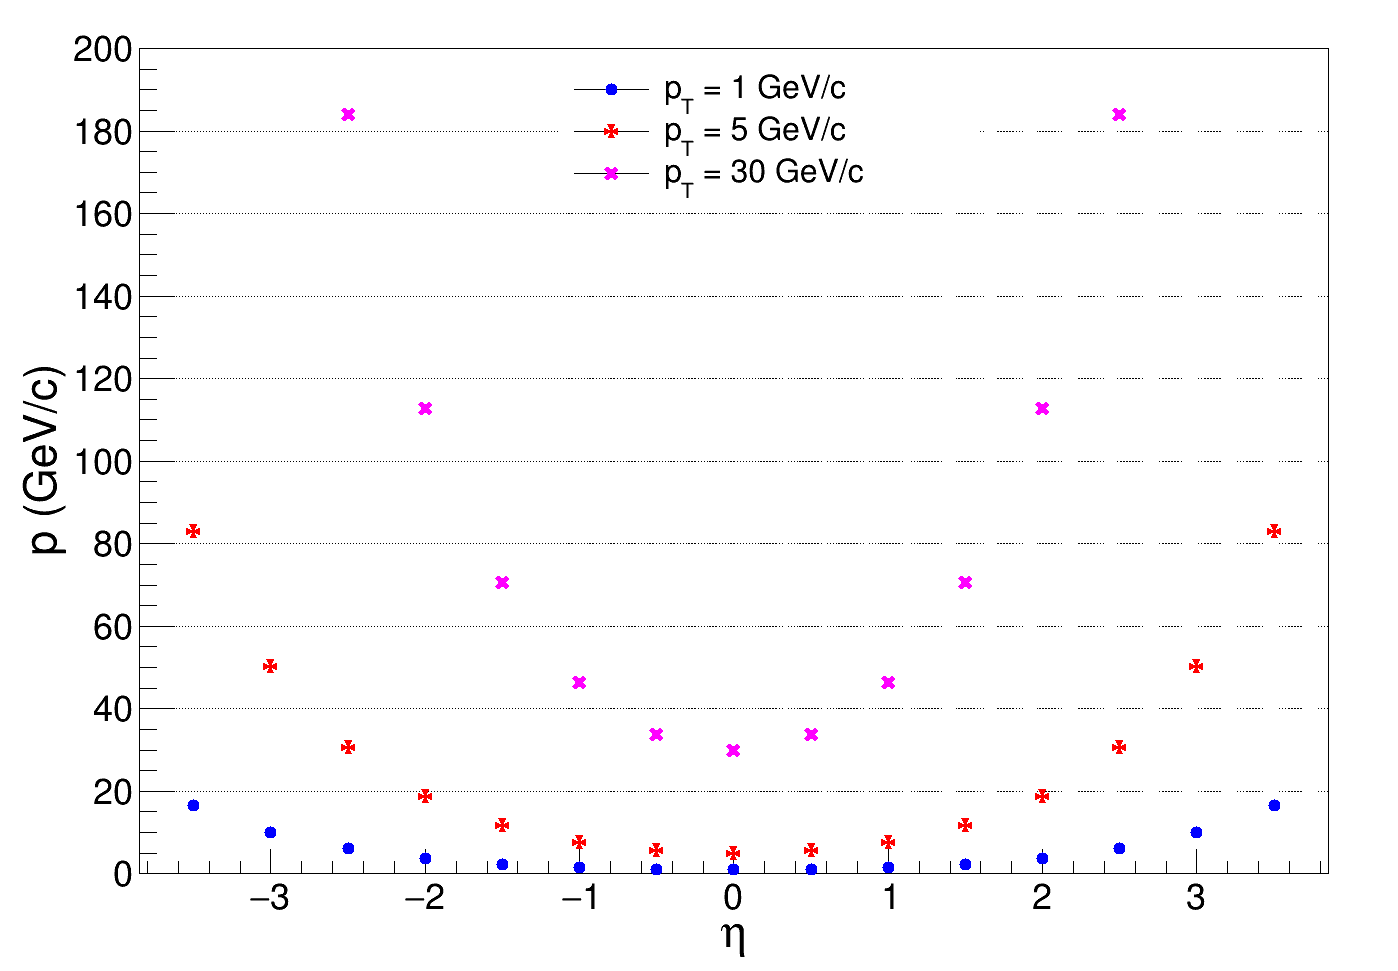
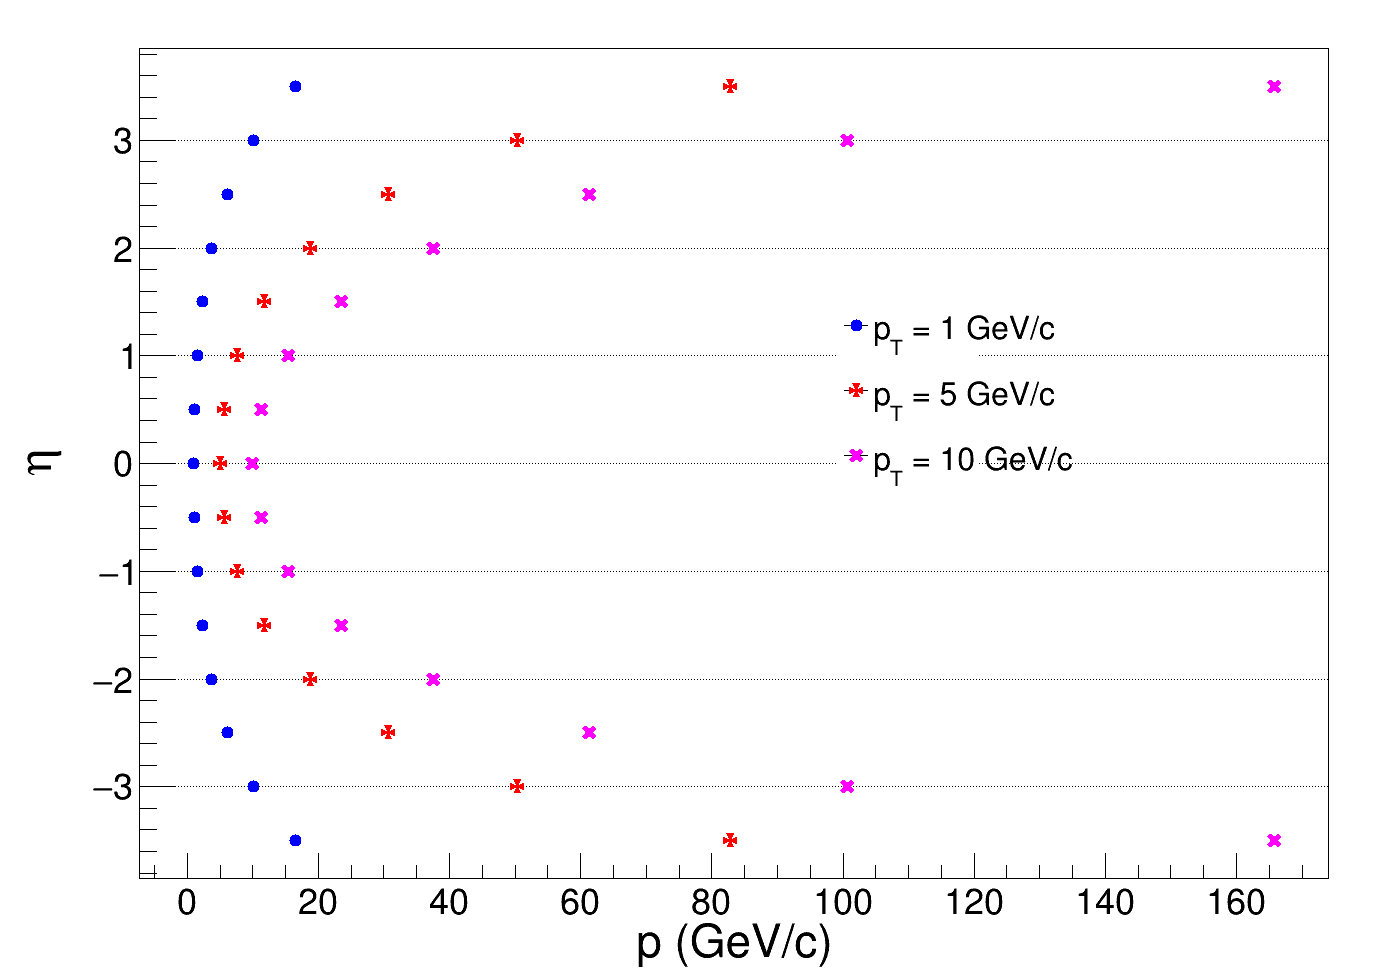
minor fix

diff --git a/Detector1_Work/Detector1FastSim/testDetectorUp.C b/Detector1_Work/Detector1FastSim/testDetectorUp.C
@@ -7,7 +7,7 @@
 #include "DetectorK.h"
 #include "DetectorK.cxx"
 
-void testDetectorUp(float etamin, float etamax) {
+void testDetectorUp(float etamin=0.0, float etamax=0.5) {
 
 
         gSystem->Exec("rm -rf Output");
@@ -33,30 +33,31 @@ void testDetectorUp(float etamin, float etamax) {
   its.AddLayer((char*)"vertex",     0,     0); // dummy vertex for matrix calculation
   // new ideal Pixel properties?
   Double_t x_x0VTX     = 0.0005; // Per layer VTX
-  Double_t x_x0VTX_SUP     = 0.3/30; // VTX Support
-  Double_t x_x0BARR    = 0.0005; // Per layer BARR
+  Double_t x_x0VTX_SUP     = 0.03/30; // VTX Support realistic by Ernst
+  Double_t x_x0BARR    = 0.0055; // Per layer BARR
   Double_t x_x0BARR_SUP    = 0.03/30; // Per layer BARR
   Double_t x_x0MM      = 0.00773532/3; // Per layer Micromegas
   Double_t x_x0TOF      = 0.05582; // LGAD layer
   Double_t x_x0DIRC     = 0.12737983; // DIRC
   Double_t resRPhiVTX     = 10.0e-4/sqrt(12); 
   Double_t resRPhiBARR    = 10.0e-4/sqrt(12); 
-  Double_t resRPhiMM      = 55.0e-4; 
+  Double_t resRPhiMM      = 150.0e-4; 
   Double_t resZVTX        = 10.0e-4/sqrt(12); 
   Double_t resZBARR       = 10.0e-4/sqrt(12); 
-  Double_t resZMM         = 55.0e-4;
+  Double_t resZMM         = 150.0e-4;
   Double_t resRPhiTOF = 30.0e-4; // 30 mum
   Double_t resZTOF = 30.0e-4; // 30 mum
   Double_t eff            = 1.0;
+  Double_t shift = 0.0; // cm
   //
   //  
   its.AddLayer((char*)"VTX1",  3.3 ,  x_x0VTX/sin_theta, resRPhiVTX, resZVTX,eff); 
   its.AddLayer((char*)"VTX2",  4.35 ,  x_x0VTX/sin_theta, resRPhiVTX, resZVTX,eff); 
   its.AddLayer((char*)"VTX3",  5.40 ,  x_x0VTX/sin_theta, resRPhiVTX, resZVTX,eff); 
   its.AddLayer((char*)"VTXSUPPORT",  6.3 ,  x_x0VTX_SUP/sin_theta); 
-  its.AddLayer((char*)"BARR1", 21.0, x_x0BARR/sin_theta, resRPhiBARR, resZBARR,eff); 
-  its.AddLayer((char*)"BARR2", 22.68, x_x0BARR/sin_theta, resRPhiBARR, resZBARR,eff); 
-  its.AddLayer((char*)"BARRSUPPORT", 23.50 ,  x_x0BARR_SUP/sin_theta); 
+  its.AddLayer((char*)"BARR1", 21.0+shift, x_x0BARR/sin_theta, resRPhiBARR, resZBARR,eff); 
+  its.AddLayer((char*)"BARR2", 22.68+shift, x_x0BARR/sin_theta, resRPhiBARR, resZBARR,eff); 
+  its.AddLayer((char*)"BARRSUPPORT", 23.50+shift,  x_x0BARR_SUP/sin_theta); 
   its.AddLayer((char*)"MM1",  33.14 ,  x_x0MM/sin_theta, resRPhiMM, resZMM,eff); 
   its.AddLayer((char*)"MM2",  51.0 ,  x_x0MM/sin_theta, resRPhiMM, resZMM,eff); 
   its.AddLayer((char*)"TOF",  64.0 ,  x_x0TOF/sin_theta, resRPhiTOF, resZTOF,eff); 
@@ -67,6 +68,7 @@ void testDetectorUp(float etamin, float etamax) {
   //c->cd();
  // its.PlotLayout(1);
   its.PrintLayout();
+  //exit(0);
   its.SolveViaBilloir(0);
   its.MakeStandardPlots(0,2,1,kTRUE);
 

diff --git a/Plot_P_eta.C b/Plot_P_eta.C
@@ -25,7 +25,7 @@ void Plot_P_eta()
    eta_arr[index] = i*0.1;
    pt_min[index] = 1.0/(TMath::CosH(i*0.1)); // p = pt*Cosh(eta);
    pt_max[index] = 5.0/(TMath::CosH(i*0.1));
-   pt_highest[index] = 30.0/(TMath::CosH(i*0.1));
+   pt_highest[index] = 10.0/(TMath::CosH(i*0.1));
    index++;
    }
    
@@ -64,7 +64,7 @@ void Plot_P_eta()
 			l1->SetBorderSize(0);
 			l1->AddEntry(gr,"p = 1 GeV/c");
 			l1->AddEntry(gr1,"p = 15 GeV/c");
-			l1->AddEntry(gr2,"p = 30 GeV/c");
+			l1->AddEntry(gr2,"p = 10 GeV/c");
 			l1->Draw();
    
    c1->SaveAs("pt_eta_corr.png");

diff --git a/Plot_Pt_eta.C b/Plot_Pt_eta.C
@@ -25,7 +25,7 @@ void Plot_Pt_eta()
    eta_arr[index] = i*0.1;
    p_min[index] = 1.0*TMath::CosH(i*0.1);
    p_max[index] = 5.0*TMath::CosH(i*0.1);
-   p_highest[index] = 30.0*TMath::CosH(i*0.1);
+   p_highest[index] = 10.0*TMath::CosH(i*0.1);
    index++;
    }
    
@@ -64,7 +64,7 @@ void Plot_Pt_eta()
 			l1->SetBorderSize(0);
 			l1->AddEntry(gr,"p_{T} = 1 GeV/c");
 			l1->AddEntry(gr1,"p_{T} = 5 GeV/c");
-			l1->AddEntry(gr2,"p_{T} = 30 GeV/c");
+			l1->AddEntry(gr2,"p_{T} = 10 GeV/c");
 			l1->Draw();
    
    c1->SaveAs("p_eta_corr.png");

diff --git a/Detector1_Work/Detector1FastSim/PlotFastSimOutput.C b/Detector1_Work/Detector1FastSim/PlotFastSimOutput.C
@@ -20,7 +20,7 @@ void PlotFastSimOutput(float etamin, float etamax){
   TGraph *grPRXY_Mom[nbins], *grPRZ_Mom[nbins];
 
     // Reading the Graph
-    for (int i=0; i<nbins+1; i++){
+    for (int i=0; i<nbins; i++){
      if (fabs(eta) >= -0.0001 && fabs(eta) <= 0.0001) eta = 0.00; // avoid negative -0.00
     	f[i] = TFile::Open(Form("Output/FastSimulation_Output_eta_%1.2f.root",eta));
       grP[i] =   (TGraph*) f[i]->Get("grTotalMomRes1");
